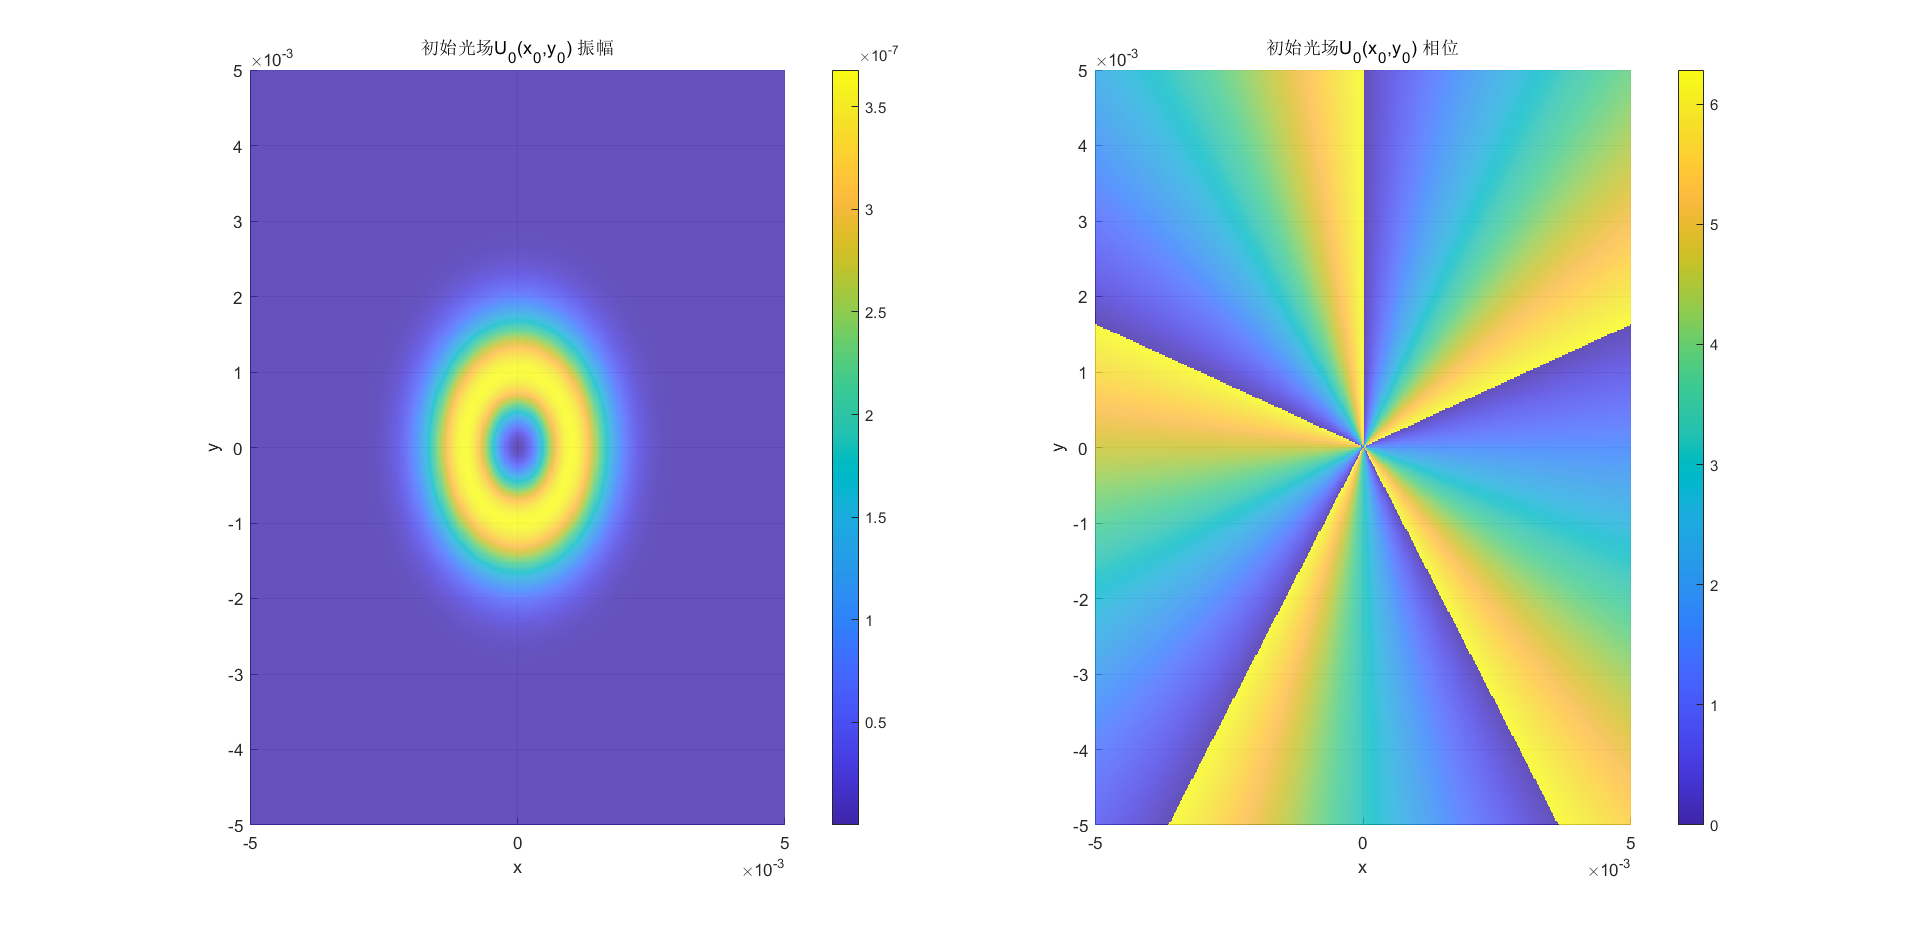
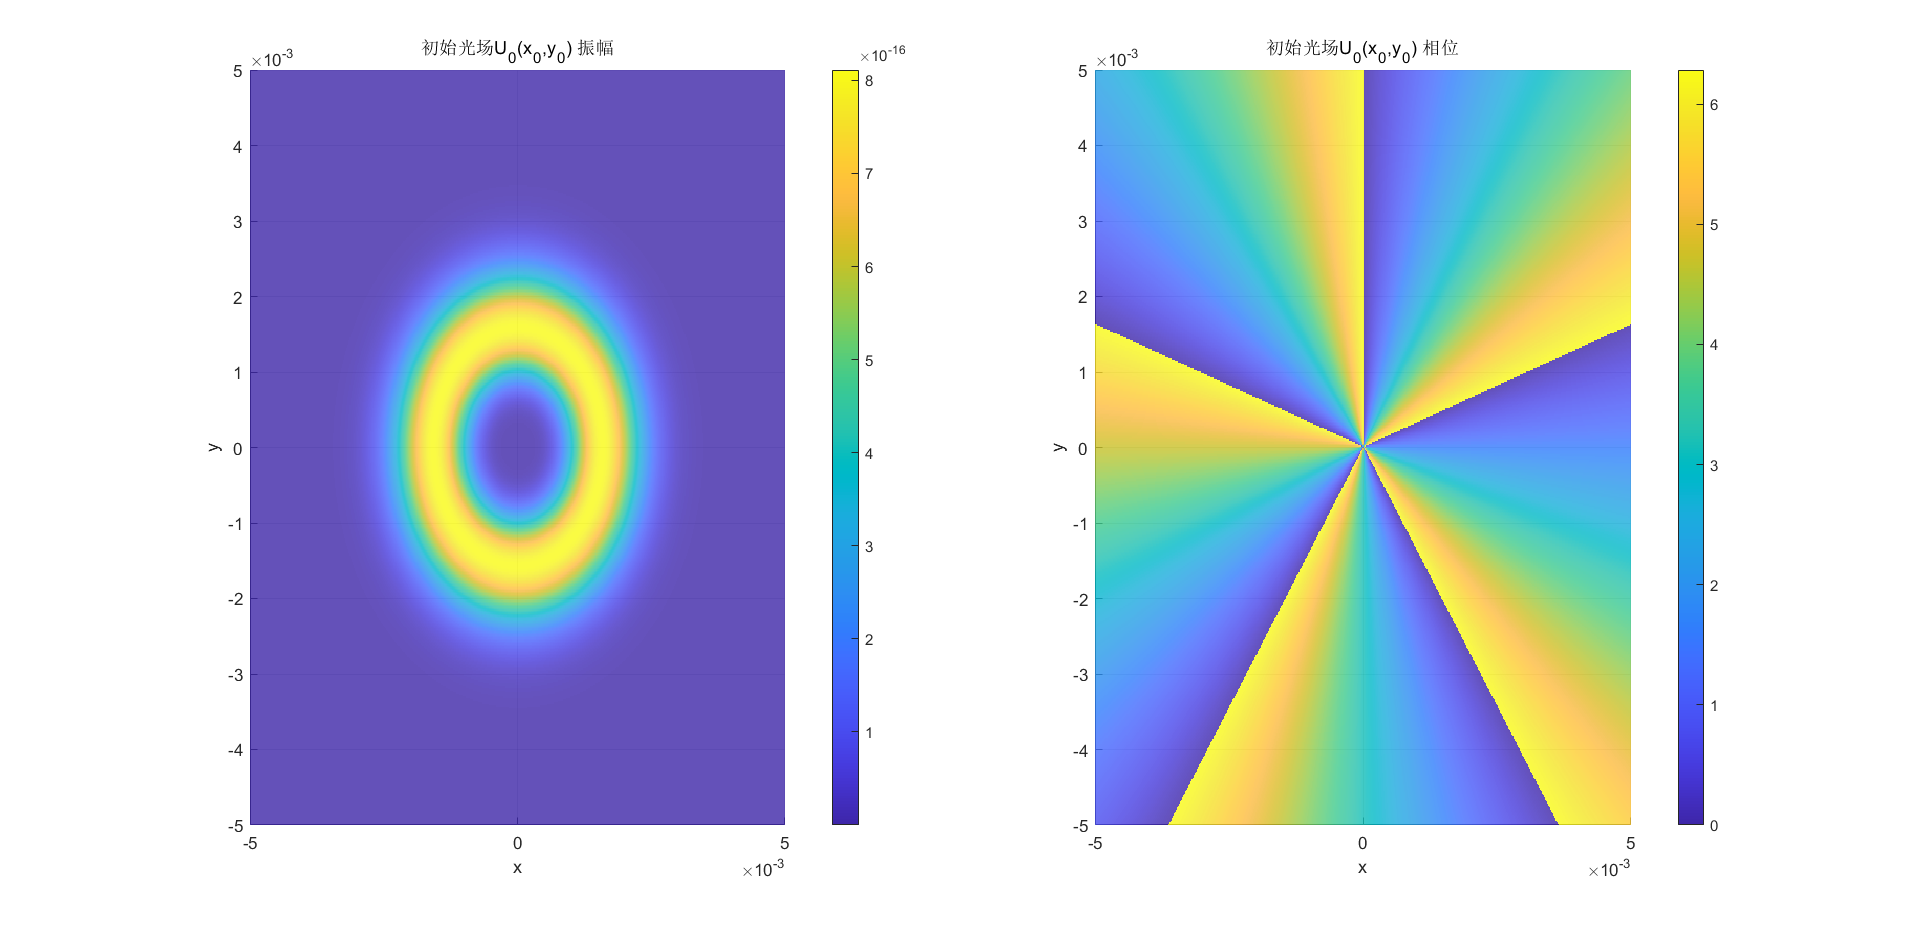
更正了高斯拉盖尔光束初始光场表达式

Changed region(s): [[0.1875, 0.2416, 0.375, 0.7249]]

diff --git a/Copy_of_task4_1.m b/Copy_of_task4_1.m
@@ -1,22 +1,22 @@
-%% 高斯拉盖尔光束
+%% 振幅型余弦光栅
 clear, clc, close all
 
 lambda = 633e-9; % 波长
-r = 5e-3; % 波片半径
-w = 1e-3; % 参数
-l = 5; % 参数
-z = 5; % 传播距离
-Xmin = -2 * r;
-Xmax = 2 * r;
-Ymin = -2 * r;
-Ymax = 2 * r; % 观察屏范围
+a = 1e-2; % 光栅长度
+b = 1e-2; % 光栅高度
+d = 2e-3; % 光栅常数
+z = 200; % 传播距离
+Xmin = -0.1;
+Xmax = 0.1;
+Ymin = -0.1;
+Ymax = 0.1; % 观察屏范围
 nn = 512; % 高分辨率
 
-xmin = -r;
-xmax = r;
-ymin = -r;
-ymax = r;
-Uc = @(x, y)(x^2 + y^2 < r^2) .* ((x.^2 + y.^2).^(l / 2) .* exp(-(x.^2 + y.^2)/w^2+1j*l*atan2(x, y)));
+xmin = -a / 2;
+xmax = a / 2;
+ymin = -b / 2;
+ymax = b / 2;
+Uc = @(x, y)(1 + cos(2*pi*x/d)) / 2;
 
 
 m = nn;
@@ -38,8 +38,8 @@ Y = linspace(Ymin, Ymax, N);
 figs = [];
 work(x, y, Ud, "初始光场U_0(x_0,y_0)");
 work(X, Y, Ud1, "菲涅尔衍射光场");
-work(X, Y, Ud2, "夫琅禾费衍射光场");
-work(X, Y, Ud3, "角谱传播计算光场");
+% work(X, Y, Ud2, "夫琅禾费衍射光场");
+% work(X, Y, Ud3, "角谱传播计算光场");
 
 
 function work(x, y, U, name)
@@ -56,6 +56,7 @@ colorbar('Limits', [cmin, cmax]); % 固定颜色范围
 
 subplot(1, 2, 2)
 surf(x, y, mod(angle(U), 2*pi), 'EdgeColor', 'none', 'FaceAlpha', 0.8)
+% surf(x, y, angle(U), 'EdgeColor', 'none', 'FaceAlpha', 0.8)
 xlabel("x")
 ylabel("y")
 zlabel("\phi")

diff --git a/Copy_of_task3_1.m b/Copy_of_task3_1.m
@@ -1,22 +1,23 @@
-%% 高斯拉盖尔光束
+%% 计算双缝干涉条纹（直接计算）
 clear, clc, close all
 
 lambda = 633e-9; % 波长
-r = 5e-3; % 波片半径
-w = 1e-3; % 参数
-l = 5; % 参数
-z = 5; % 传播距离
-Xmin = -2 * r;
-Xmax = 2 * r;
-Ymin = -2 * r;
-Ymax = 2 * r; % 观察屏范围
+a = 2e-4; % 缝宽
+d = 2e-3; % 缝间距
+c = d; % 缝长度
+C=1e-3;
+z = 25; % 传播距离
+Xmin = -0.1;
+Xmax = 0.1;
+Ymin = -0.1;
+Ymax = 0.1; % 观察屏范围
 nn = 512; % 高分辨率
 
-xmin = -r;
-xmax = r;
-ymin = -r;
-ymax = r;
-Uc = @(x, y)(x^2 + y^2 < r^2) .* ((x.^2 + y.^2).^(l / 2) .* exp(-(x.^2 + y.^2)/w^2+1j*l*atan2(x, y)));
+xmin = -a / 2 - d / 2;
+xmax = a / 2 + d / 2;
+ymin = -c / 2;
+ymax = c / 2;
+Uc = @(x, y)abs(x) >= (d - a) / 2;
 
 
 m = nn;
@@ -36,10 +37,10 @@ Y = linspace(Ymin, Ymax, N);
 [X, Y] = meshgrid(X, Y);
 
 figs = [];
-work(x, y, Ud, "初始光场U_0(x_0,y_0)");
+% work(x, y, Ud, "初始光场U_0(x_0,y_0)");
 work(X, Y, Ud1, "菲涅尔衍射光场");
-work(X, Y, Ud2, "夫琅禾费衍射光场");
-work(X, Y, Ud3, "角谱传播计算光场");
+% work(X, Y, Ud2, "夫琅禾费衍射光场");
+% work(X, Y, Ud3, "角谱传播计算光场");
 
 
 function work(x, y, U, name)

diff --git a/task6_2.m b/task6_2.m
@@ -16,7 +16,7 @@ xmin = -r;
 xmax = r;
 ymin = -r;
 ymax = r;
-Uc = @(x, y)(x^2 + y^2 < r^2) .* ((x.^2 + y.^2) .* exp(-(x.^2 + y.^2)/w^2+1j*l*atan2(x, y)));
+Uc = @(x, y)(x^2 + y^2 < r^2) .* ((x.^2 + y.^2).^(l / 2) .* exp(-(x.^2 + y.^2)/w^2+1j*l*atan2(x, y)));
 
 
 m = nn;

diff --git a/task1_1.m b/task1_1.m
@@ -12,7 +12,7 @@ Xmin = -0.1;
 Xmax = 0.1;
 Ymin = -0.1;
 Ymax = 0.1;
-nn = 32; % 低分辨率
+nn = 128; % 低分辨率
 m = nn;
 n = nn;
 M = nn;

diff --git a/readme.md b/readme.md
@@ -105,8 +105,11 @@ $$
 
 ![128*128](src/task2_1.png)
 
-- [1024*1024](task2_2.m)
+- [1024*1024](task2_2.m) （简单离散积分无法跑出）
 ![1024*1024](src/task2_2.png)
+
+- [角谱传播 1024*1024](task2_3.m)
+![1024*1024](src/task2_3.png)
 
 ---
 
@@ -132,7 +135,9 @@ $$
 
 - [高斯拉盖尔光束](task6_1.m)
 
+$ l = 5$
+
 ![高斯拉盖尔光束初始光场](src/task6_1.png)
-![高斯拉盖尔光束衍射光场](src/task6_2.png)
+![高斯拉盖尔光束初始光场](src/task6_2.png)
 ![高斯拉盖尔光束衍射光场](src/task6_3.png)
 ![高斯拉盖尔光束衍射光场](src/task6_4.png)
